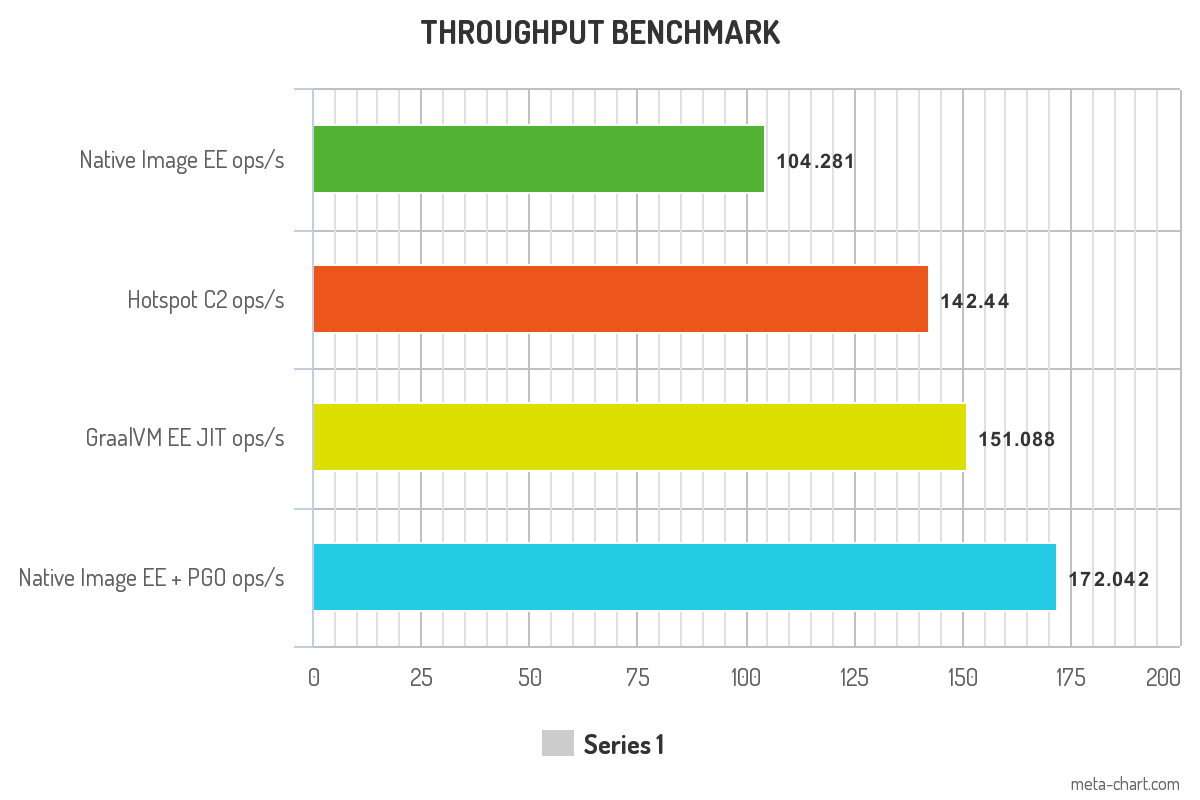
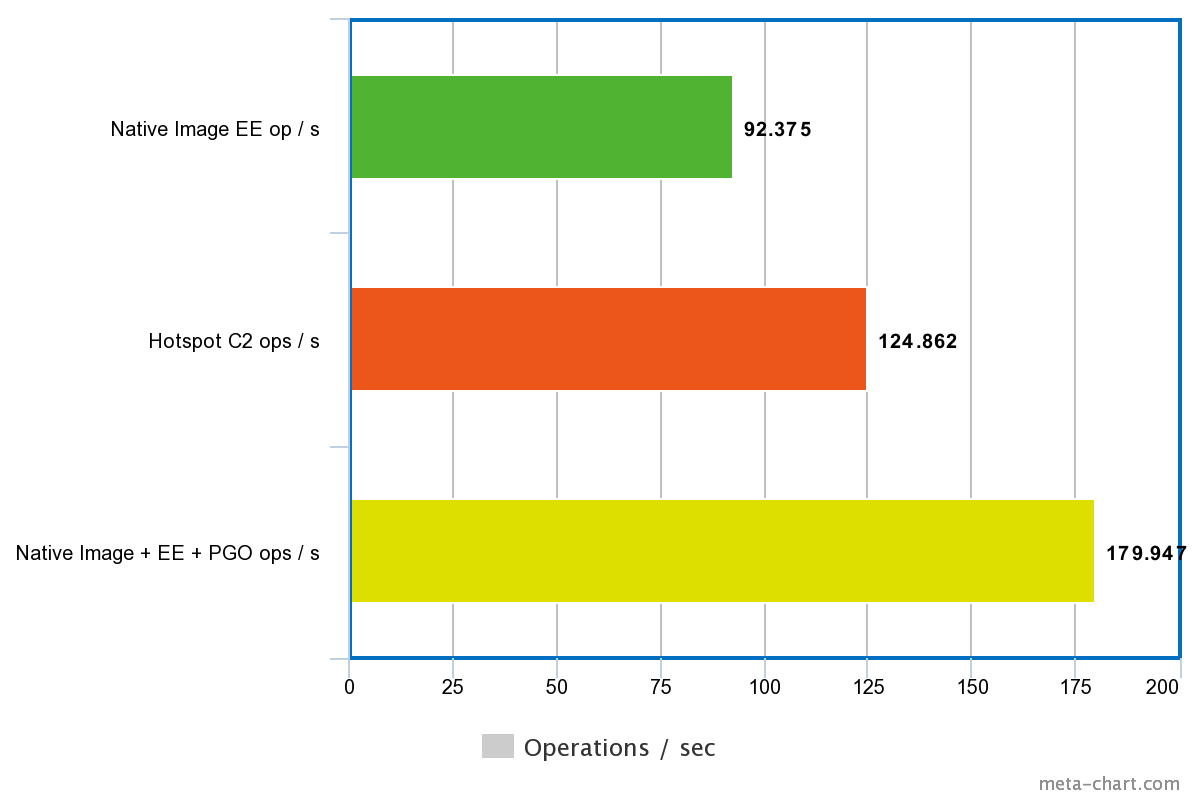
Update to run on 22.3.0. Added new benchmark run data, added new barchart of results

Changed region(s): [[0.0, 0.0, 0.9867, 0.875], [0.4008, 0.9062, 0.5858, 0.9688], [0.8633, 0.9688, 0.9867, 1.0]]

diff --git a/jmh/benchmark-binary-tree/README.md b/jmh/benchmark-binary-tree/README.md
@@ -1,8 +1,8 @@
 # Binary Tree Benchmark 
 
-This demo shows how to run a Java Microbenchmark Harness (JMH) application as a native executable.
+This demo shows how to run a Java Microbenchmark Harness (JMH) benchmark as a native executable.
 
-To build a native executable version of this application you need to run the [Tracing Agent](https://www.graalvm.org/dev/reference-manual/native-image/metadata/AutomaticMetadataCollection/) to supply the reflection configuration to the `native-image` builder. This has already been done for you to save time and the generated 
+To build a native executable version of this benchmark you need to run the [Tracing Agent](https://www.graalvm.org/dev/reference-manual/native-image/metadata/AutomaticMetadataCollection/) to supply the reflection configuration to the `native-image` builder. This has already been done for you to save time and the generated 
 configuration can be found in _src/main/resources/META-INF/native-image/_.
 
 > **Note:** To generate the configuration yourself, ensure that the JMH `fork` parameter is set to `0`, which can be performed from the command line using the option  `-f 0`. It can also be achieved within the code by using the `@Fork` annotation.
@@ -12,7 +12,7 @@ configuration can be found in _src/main/resources/META-INF/native-image/_.
 To build and then run the benchmark as a Java application, run the following commands:
 
 ```shell
-mvn clean package exec:exec
+./mvnw clean package exec:exec
 ```
 
 Note that within the _pom.xml_ file there are instructions to explicitly turn off GraalVM JIT compiler using the option `-XX:-UseJVMCICompiler`. 
@@ -21,8 +21,8 @@ This means that benchmark will run using the C2 JIT compiler.
 The application will run the benchmark and display the results to the terminal. The final result is the most significant. You should see something like:
 
 ```shell
-Benchmark          (binaryTreesN)   Mode  Cnt    Score    Error  Units
-BinaryTrees.bench              14  thrpt    3  151.088 ± 15.815  ops/s
+Benchmark          (binaryTreesN)   Mode  Cnt    Score     Error  Units
+BinaryTrees.bench              14  thrpt    3  124.862 ± 107.086  ops/s
 ```
 
 ## Build and Run as a Native Executable
@@ -31,7 +31,7 @@ Now build a native executable using Native Image. This demo uses GraalVM Enterpr
 
 To build a native executable, run the following command:
 ```shell
-mvn package -Pnative
+./mvnw package -Pnative
 ```
 
 Then run the benchmark as a native executable: 
@@ -39,11 +39,11 @@ Then run the benchmark as a native executable:
 ./target/benchmark-binary-tree
 ```
 
-These are the results obtained with GraalVM Enterprise Native Image 22.2.0:
+These are the results obtained with GraalVM Enterprise Native Image 22.3.0:
 
 ```shell
-Benchmark          (binaryTreesN)   Mode  Cnt    Score    Error  Units
-BinaryTrees.bench              14  thrpt    3  104.281 ± 71.288  ops/s
+Benchmark          (binaryTreesN)   Mode  Cnt   Score    Error  Units
+BinaryTrees.bench              14  thrpt    3  92.375 ± 69.008  ops/s
 ```
 
 ## Optimise the Native Image
@@ -60,7 +60,7 @@ This file, containing profiling information about the application, will be used 
 
 1. To build the instrumented version of the native executable, run the following command:
     ```shell
-    mvn package -Pinstrumented
+    ./mvnw package -Pinstrumented
     ```
 
 2. Then run it to generate the profile file:
@@ -70,21 +70,21 @@ This file, containing profiling information about the application, will be used 
 
 3. Now that you have generated the profile file, build and run the optimised version of the native executable:
     ```shell
-    mvn package -Poptimised
+    ./mvnw package -Poptimised
     ```
     ```shell
     ./target/benchmark-binary-tree-opt
     ```
-    These are the results obtained with GraalVM Enterprise Native Image 22.2.0:
+    These are the results obtained with GraalVM Enterprise Native Image 22.3.0:
     ```shell
-    Benchmark          (binaryTreesN)   Mode  Cnt    Score    Error  Units
-    BinaryTrees.bench              14  thrpt    3  172.042 ± 77.747  ops/s
+    Benchmark          (binaryTreesN)   Mode  Cnt    Score     Error  Units
+    BinaryTrees.bench              14  thrpt    3  179.947 ± 124.627  ops/s
     ```
 
 ## Your Mileage May Vary
 
 The results you see will vary depending on the hardware you are running on. The results above are from a 2019 MacBook Pro, i7, 32 GB RAM
-running GraalVM Enterprise 22.2.0 for JDK 17.
+running GraalVM Enterprise 22.3.0 for JDK 17.
 
 See the previous data collated into a chart:
 
